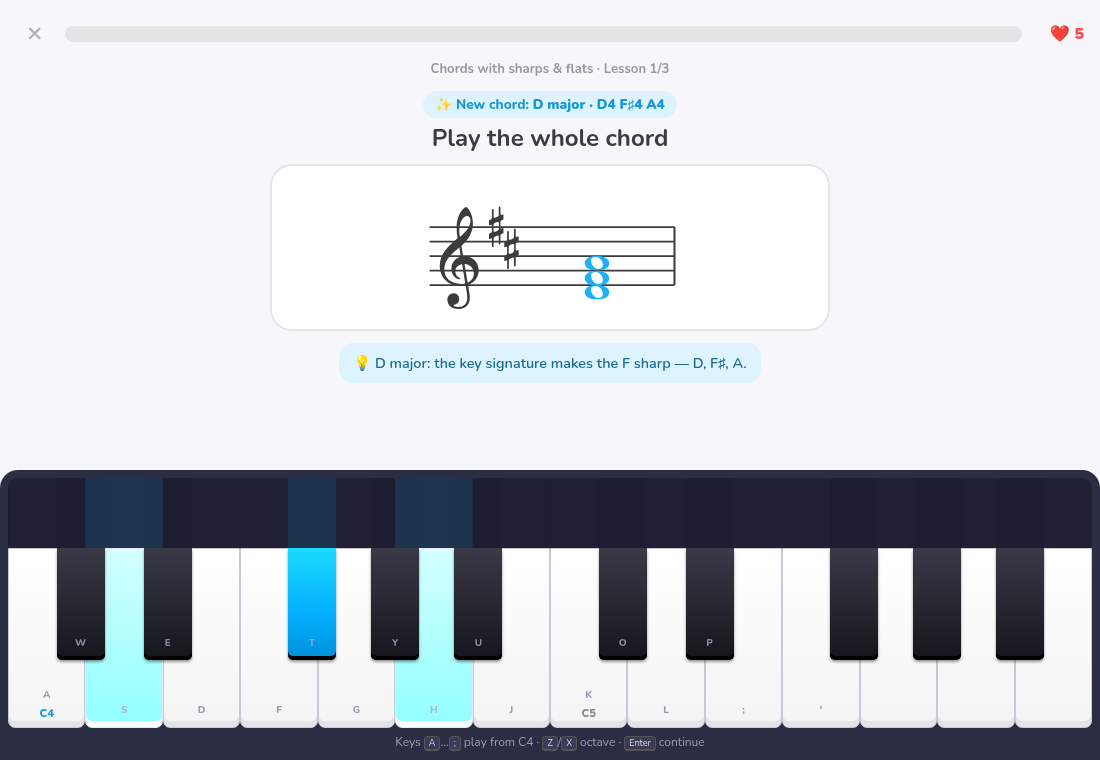
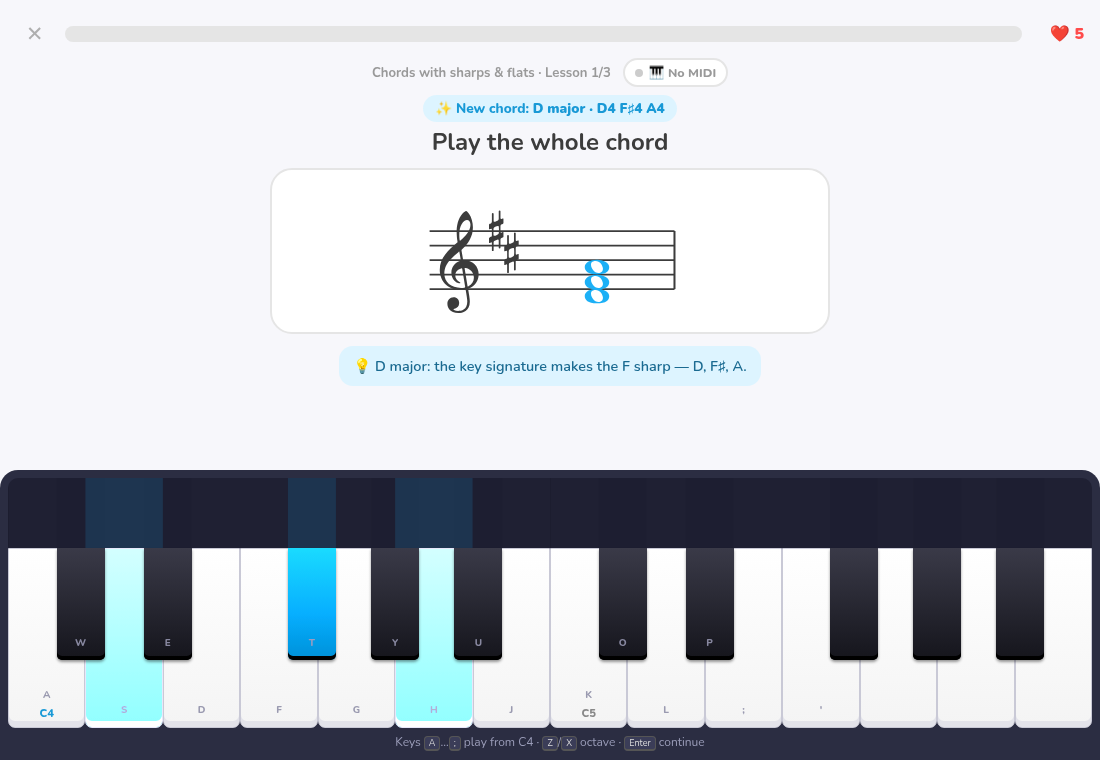
Layout: overlay feedback sheet, compact grand staff

Changed region(s): [[0.3091, 0.2724, 0.68, 0.5145], [0.34, 0.0605, 0.6491, 0.2118]]

diff --git a/src/components/Staff.tsx b/src/components/Staff.tsx
@@ -31,7 +31,7 @@ const FLAT_TREBLE = [4, 7, 3, 6, 2, 5, 1];
 
 export function Staff({ clef, fifths = 0, notes, layout, ghosts = [], activeIndex }: Props) {
   const staves: Clef[] = clef === 'grand' ? ['treble', 'bass'] : [clef];
-  const topY: Record<Clef, number> = clef === 'grand' ? { treble: 6 * S, bass: 17 * S } : { treble: 6 * S, bass: 6 * S };
+  const topY: Record<Clef, number> = clef === 'grand' ? { treble: 6 * S, bass: 16 * S } : { treble: 6 * S, bass: 6 * S };
   const height = clef === 'grand' ? 26 * S : 15 * S;
   const y = (pos: number, st: Clef) => topY[st] + ((8 - pos) * S) / 2;
 
@@ -141,10 +141,10 @@ export function Staff({ clef, fifths = 0, notes, layout, ghosts = [], activeInde
   const bots = staves.map((st) => topY[st] + 6.6 * S);
   for (const pl of placed) { tops.push(y(pl.pos, pl.st) - 1.6 * S); bots.push(y(pl.pos, pl.st) + 1.6 * S); }
   const vbTop = Math.max(0, Math.min(...tops, clef === 'grand' ? 3 * S : 2.2 * S));
-  const vbBot = Math.min(height, Math.max(...bots, clef === 'grand' ? 23 * S : 12.4 * S));
+  const vbBot = Math.min(height, Math.max(...bots, clef === 'grand' ? 22 * S : 12.4 * S));
   const vbH = vbBot - vbTop;
   return (
-    <svg className={`staff ${clef === 'grand' ? 'grand' : ''}`} viewBox={`0 ${vbTop} ${width} ${vbH}`} style={{ height: `calc(var(--staff-k) * ${clef === 'grand' ? (vbH * 0.72).toFixed(1) : vbH})`, maxWidth: '100%' }} role="img" aria-label="music staff">
+    <svg className={`staff ${clef === 'grand' ? 'grand' : ''}`} viewBox={`0 ${vbTop} ${width} ${vbH}`} style={{ height: `calc(var(--staff-k) * ${clef === 'grand' ? (vbH * 0.62).toFixed(1) : vbH})`, maxWidth: '100%' }} role="img" aria-label="music staff">
       {els}
     </svg>
   );

diff --git a/src/index.css b/src/index.css
@@ -138,7 +138,9 @@ kbd { font-family: inherit; font-size: 0.75em; border: 1px solid #ccc; border-bo
 .hint { max-width: 560px; text-align: center; background: #ddf4ff; color: #1a6a91; border-radius: 14px; padding: 10px 14px; margin: 12px 0 0; font-weight: 600; animation: pop .3s; }
 .sub-hint { color: #999; font-size: .85rem; font-weight: 700; margin: 8px 0 0; }
 
-.feedback { min-height: 76px; padding: 0 16px; display: flex; align-items: center; transition: background .2s; }
+.stage { flex: 1; min-height: 0; position: relative; display: flex; flex-direction: column; }
+.feedback { position: absolute; left: 0; right: 0; bottom: 0; padding: 0 16px; display: flex; align-items: center; z-index: 5; border-radius: 16px 16px 0 0; }
+.feedback.fb-question { pointer-events: none; }
 .feedback.fb-correct { background: #d7ffb8; }
 .feedback.fb-wrong { background: #ffdfe0; }
 .fb-inner { display: flex; align-items: center; justify-content: space-between; gap: 12px; width: 100%; max-width: 1000px; margin: 0 auto; padding: 10px 0; animation: up .2s ease-out; }
@@ -226,7 +228,6 @@ kbd { font-family: inherit; font-size: 0.75em; border: 1px solid #ccc; border-bo
   .btn { padding: 10px 16px; }
   .fb-inner { flex-direction: column; align-items: stretch; }
   .fb-actions { justify-content: flex-end; }
-  .feedback { min-height: 64px; }
   .kb-help { display: none; }
   .node-pop { width: 230px; }
   .staff-card { padding: 4px 8px; }

diff --git a/src/screens/LessonScreen.tsx b/src/screens/LessonScreen.tsx
@@ -298,6 +298,7 @@ export function LessonScreen({ spec, onExit, onPractice }: { spec: SessionSpec; 
         {isPractice && <span className="muted">⚡ {stats.xp} XP · {stats.correct} correct</span>}
       </div>
 
+      <div className="stage">
       <main className="question">
         {isIntro ? (
           <div className="intro-badge">✨ New {ex.kind === 'note' ? 'note' : ex.kind}: <b>{ex.label}</b></div>
@@ -337,6 +338,8 @@ export function LessonScreen({ spec, onExit, onPractice }: { spec: SessionSpec; 
             </div>
           </div>
         )}
+      </div>
+
       </div>
 
       <PianoPanel lo={lo} hi={hi} marks={marks} onNote={handleNote} roll={roll} onEnter={advance} center={center} />
